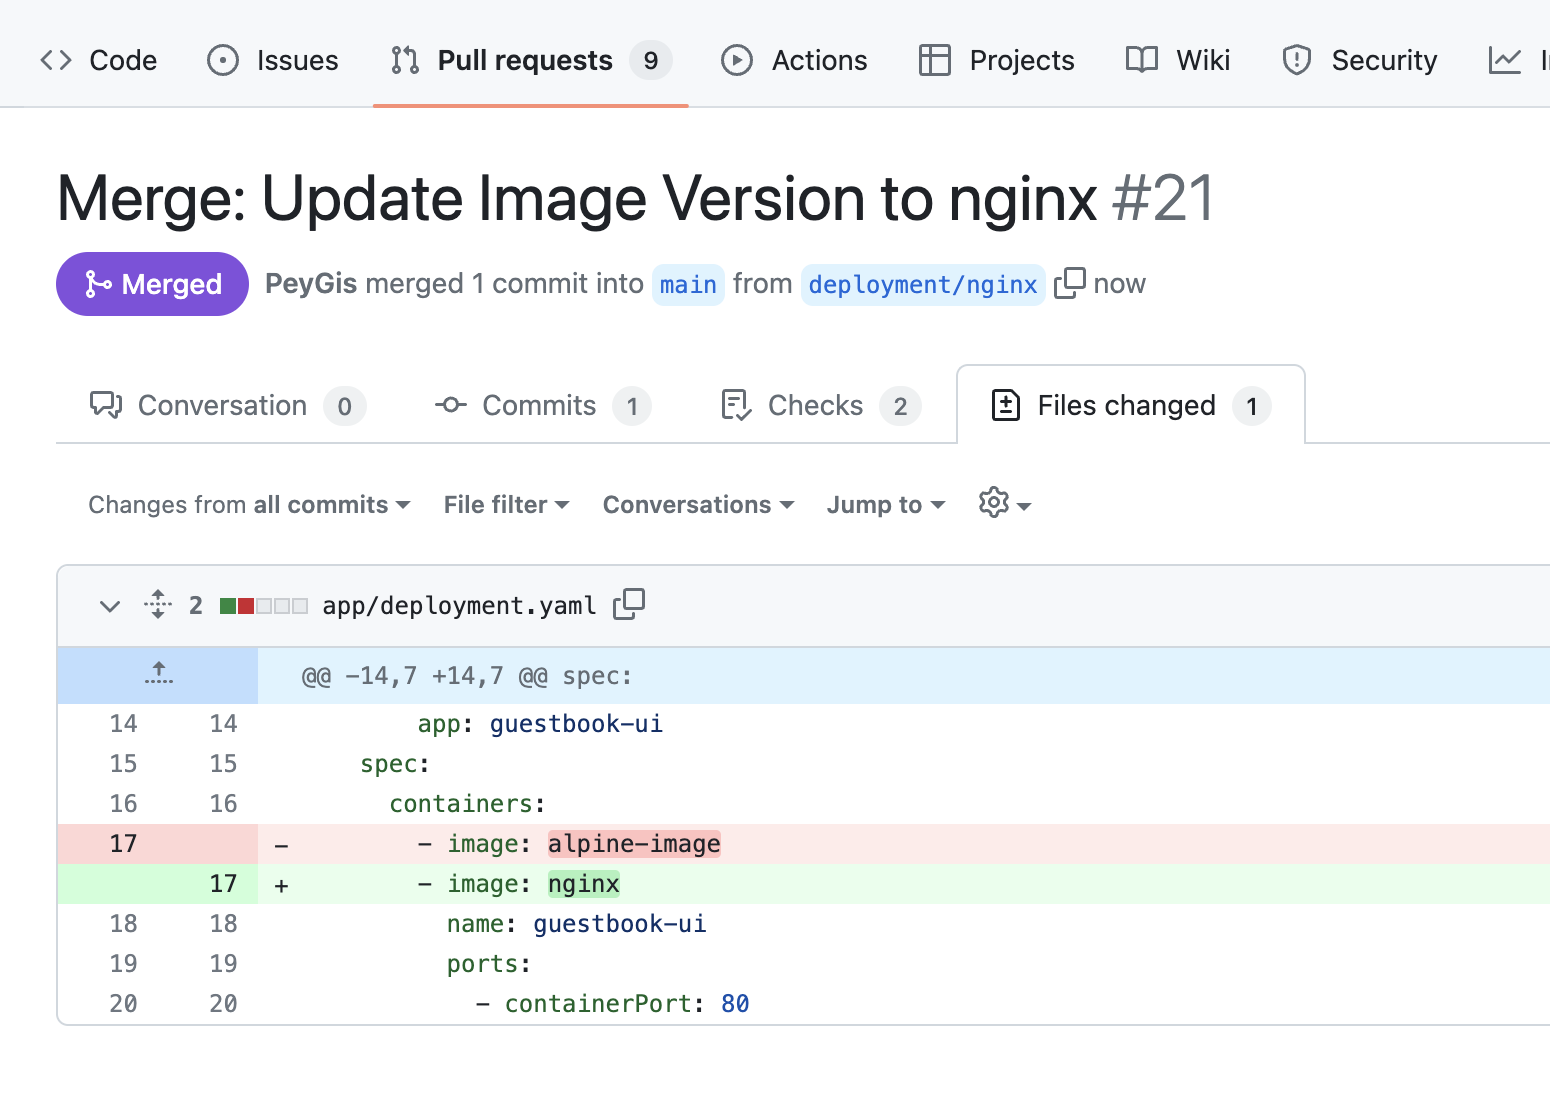
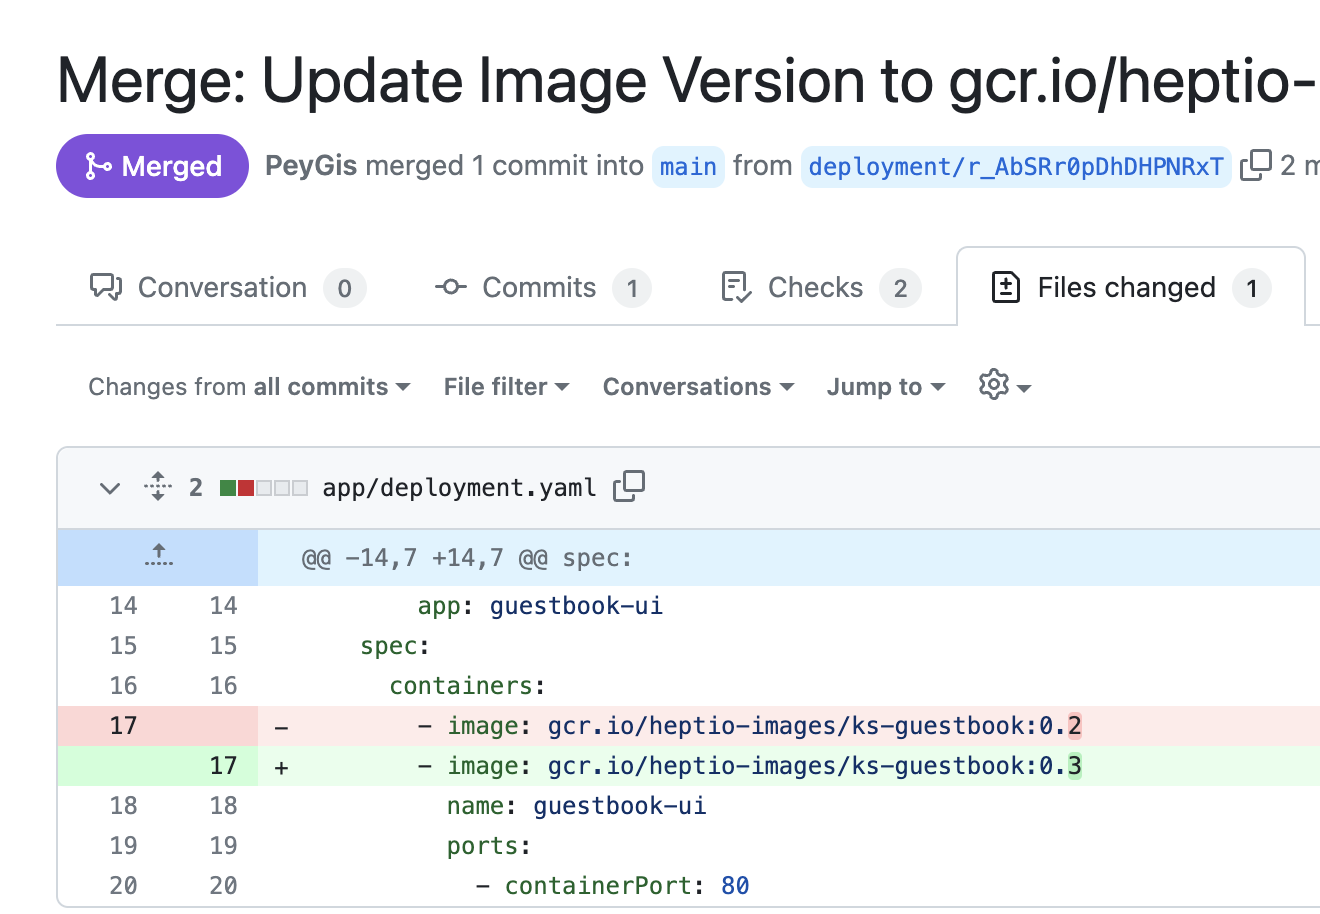
update action and image

Changed region(s): [[0.0311, 0.0306, 1.0, 1.0], [0.0311, 0.4902, 0.0621, 0.5208]]

diff --git a/docs/create-self-service-experiences/setup-backend/github-workflow/examples/rollback-argocd-deployment.md b/docs/create-self-service-experiences/setup-backend/github-workflow/examples/rollback-argocd-deployment.md
@@ -229,7 +229,7 @@ Follow these steps to get started:
     - `MY_GITHUB_TOKEN` - a [Classic Personal Access Token](https://github.com/settings/tokens) with the `repo` scope and the following permissions: `pull_requests:write` (to create PR) and `contents:write` (to merge PR)
 
 <br />
-2. Create a Port action in the [self-service page](https://app.getport.io/self-serve) or with the following JSON definition:
+2. Create a Port action in the [self-service page](https://app.getport.io/self-serve) on the `Service` blueprint with the following JSON definition:
 
 <details>
 
@@ -254,8 +254,8 @@ Follow these steps to get started:
         "blueprint": "image",
         "format": "entity"
       },
-      "should_merge": {
-        "title": "Should Merge",
+      "auto_merge": {
+        "title": "Auto Merge",
         "type": "boolean",
         "default": false,
         "description": "Whether the created PR should be merged or not"
@@ -264,7 +264,7 @@ Follow these steps to get started:
     "required": [],
     "order": [
       "image",
-      "should_merge"
+      "auto_merge"
     ]
   },
   "invocationMethod": {
@@ -305,7 +305,7 @@ on:
         description: The new image to use for the rollback
         required: true
         type: string
-      should_merge:
+      auto_merge:
         description: Whether the created PR should be merged automatically
         required: true
         type: boolean
@@ -341,7 +341,7 @@ jobs:
           targetBranch: main
           masterBranchName: main
           createPR: true
-          branch: deployment/${{ github.event.inputs.image }}
+          branch: deployment/${{ fromJson(github.event.inputs.port_payload).context.runId }}
           message: 'Update deployment image to ${{ github.event.inputs.image }}'
           
       - name: Inform Port about pull request creation status - Success
@@ -370,7 +370,7 @@ jobs:
             The creation of PR was not successful.
   
       - name: Merge Pull Request
-        if: ${{ github.event.inputs.should_merge == 'true' && steps.create-pr.outcome == 'success' }}
+        if: ${{ github.event.inputs.auto_merge == 'true' && steps.create-pr.outcome == 'success' }}
         env:
           GH_TOKEN: ${{ secrets.MY_GITHUB_TOKEN }}
           PR_URL: ${{ fromJson(steps.create-pr.outputs.pull_request).url }}
@@ -392,7 +392,7 @@ jobs:
           fi
 
       - name: Inform completion of Argocd rollback into Port
-        if: ${{ github.event.inputs.should_merge == 'true' }}
+        if: ${{ github.event.inputs.auto_merge == 'true' }}
         uses: port-labs/port-github-action@v1
         with:
           clientId: ${{ secrets.PORT_CLIENT_ID }}
